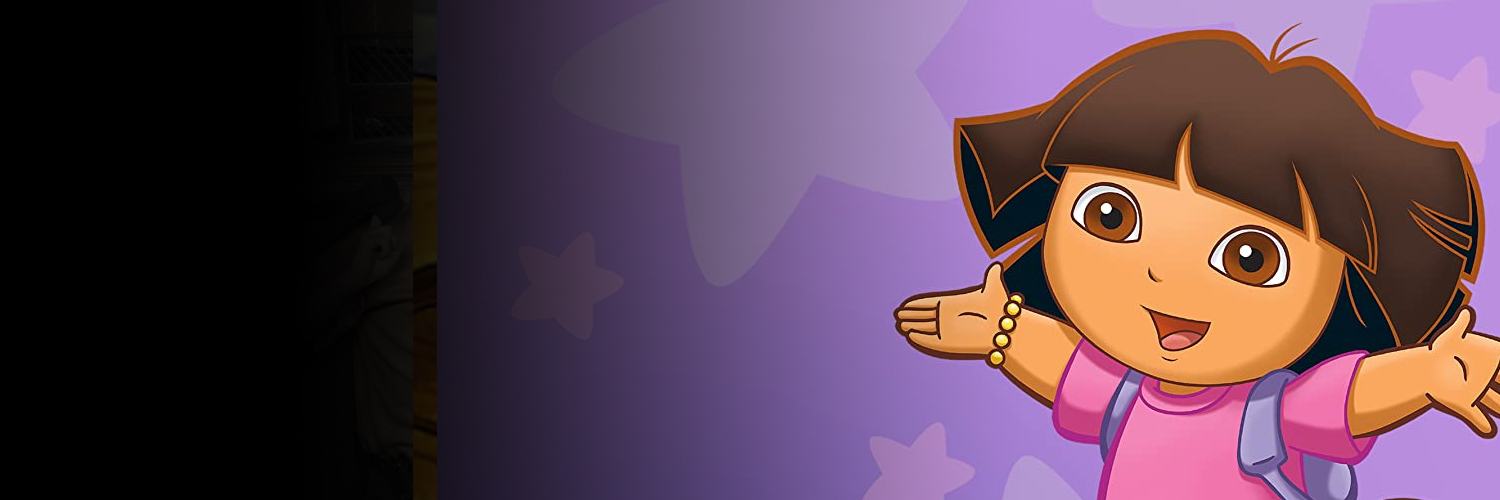
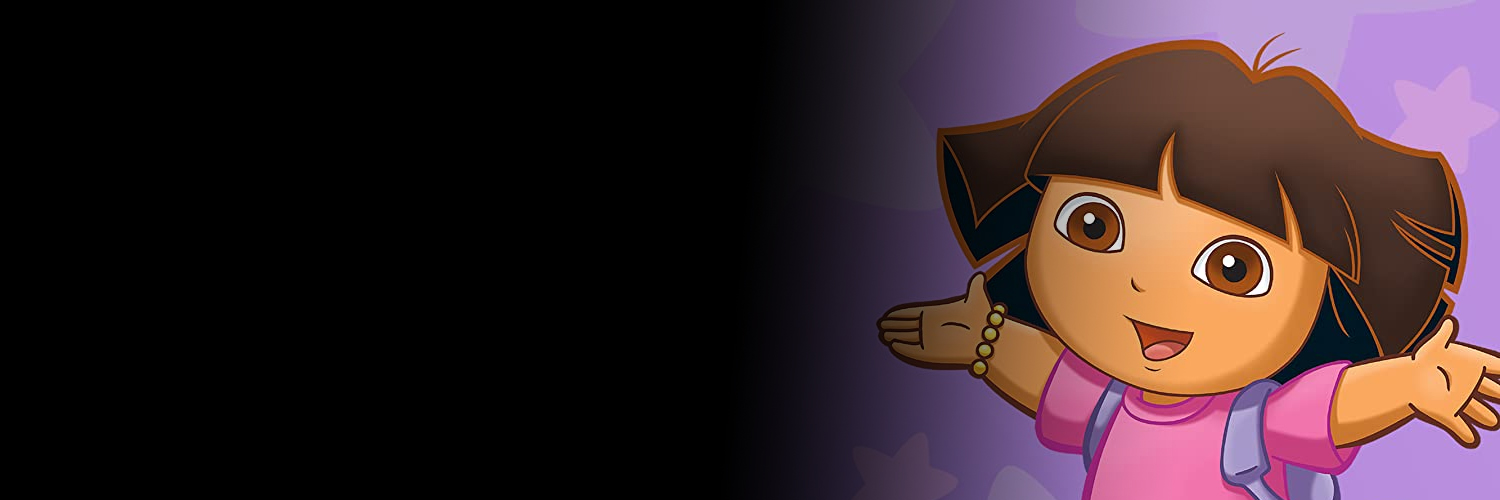
feat: seed now complete

diff --git a/src/components/card/styles/Card.js b/src/components/card/styles/Card.js
@@ -64,6 +64,7 @@ export const Image = styled.img`
   border: 0;
   width: 100%;
   max-width: 305px;
+  cursor: pointer;
   height: auto;
   padding: 0;
   margin: 0;
@@ -100,9 +101,12 @@ export const Feature = styled.div`
   display: flex;
   flex-direction: row;
   background: url(${({ src }) => src});
-  background-size: cover;
+  background-size: contain;
   position: relative;
   height: 500px;
+  background-position-x: right;
+  background-repeat: no-repeat;
+  background-color: black;
 `;
 
 export const FeatureTitle = styled(Title)`
